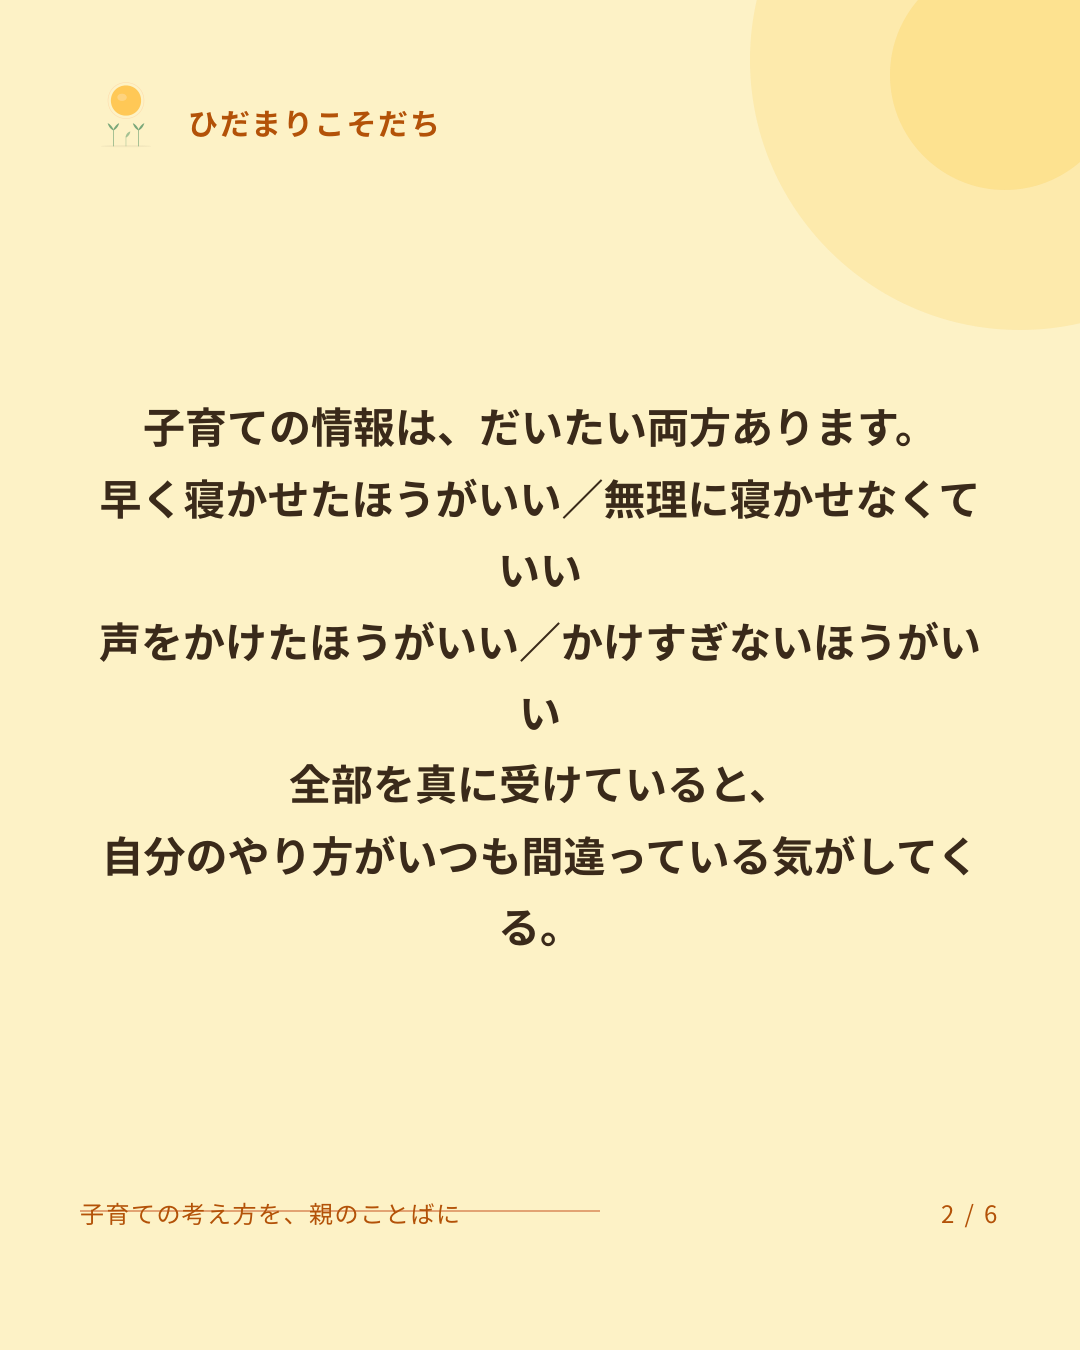
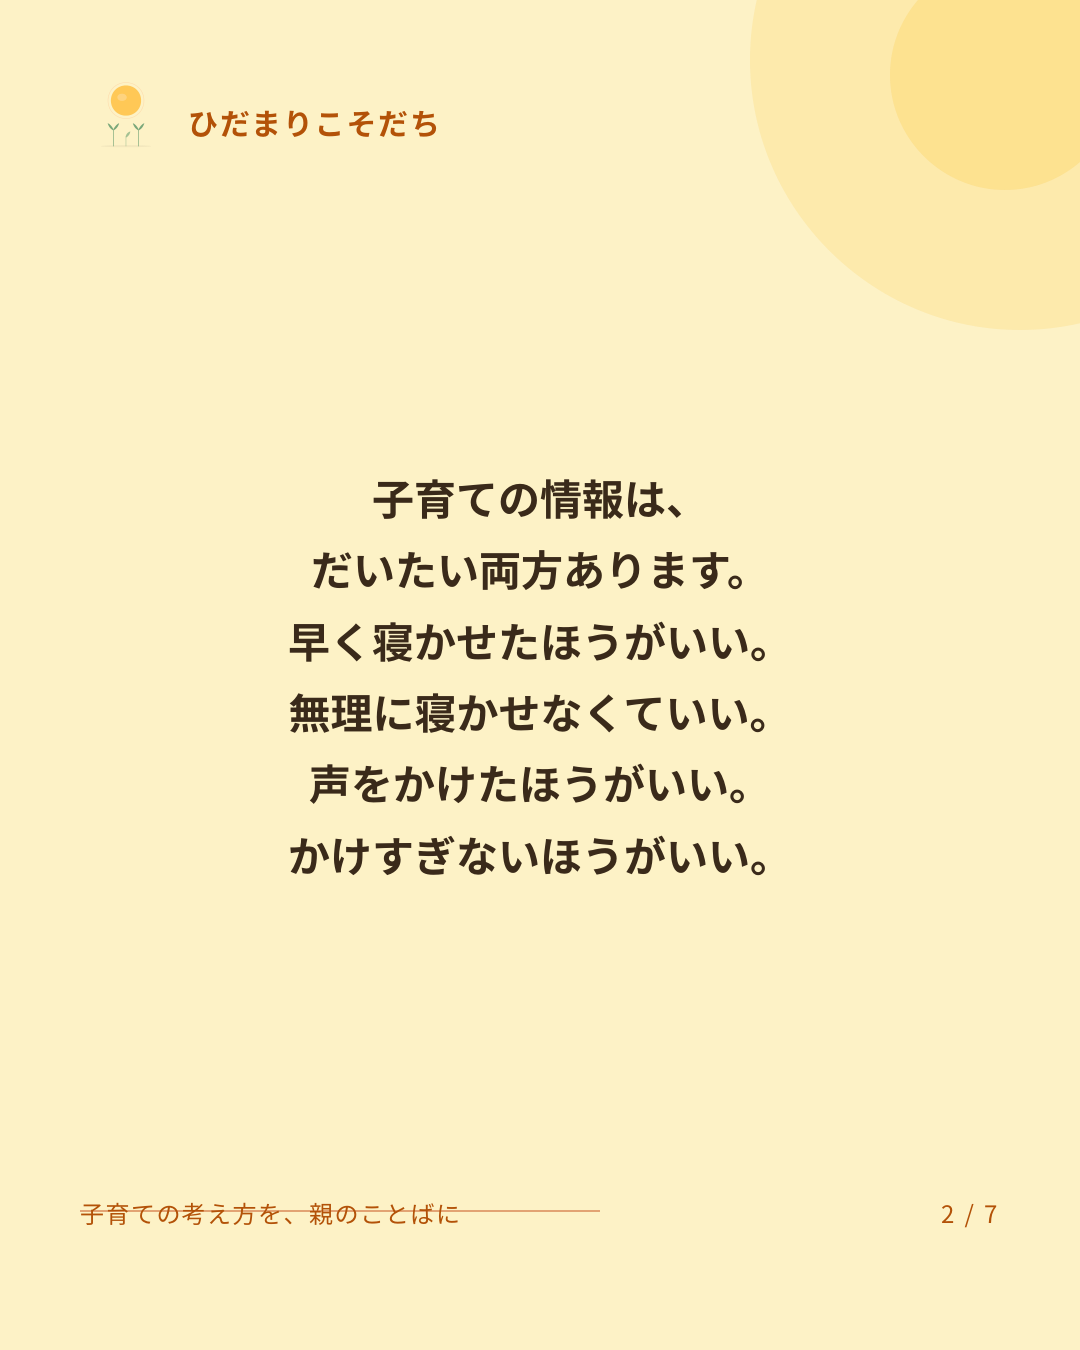
fix(copy): 改行を「1行で読める位置」に統一（オーナー指示 2026-09-27）
- scripts/lib/jp_wrap.py 新設（句点→読点→助詞の順で切る・孤立行を作らない）
- instagram_carousel.py に word-break:keep-all（単語途中で折り返させない）
- format_note_linebreaks.py に助詞での分割を追加（太字スパンの外側だけ・リンクは触らない）
- カルーセル④の原稿を短い行に書き直し7枚へ／縁側タイプ記事を再整形して再入稿

Changed region(s): [[0.0917, 0.28, 0.9167, 0.7156]]

diff --git a/scripts/lib/jp_wrap.py b/scripts/lib/jp_wrap.py
@@ -1,0 +1,72 @@
+"""日本語の改行を「1行だけ読んで意味が通る」位置で入れるユーティリティ。
+
+オーナー指示（2026-09-27）: 単語・文節の途中で折り返さない。画像・note・SNS すべてに適用する。
+切る位置の優先順は 句点 → 読点 → 助詞の後ろ → 括弧の外側。
+"""
+from __future__ import annotations
+
+import re
+
+# 助詞・接続の切れ目（この直後で切ると読みやすい）
+PARTICLES = ("ので", "けど", "から", "より", "ため", "のに", "ては", "ても", "でも",
+             "には", "とは", "では", "へは", "って", "は", "が", "を", "に", "で",
+             "と", "も", "や", "ね", "し")
+# 行頭に置いてはいけない文字（禁則）
+NO_HEAD = "、。）」』】,.!?！？ー・"
+
+
+def _break_points(s: str) -> list[int]:
+    """切ってよい位置（その位置の直前までで1行にできる index）を優先度つきで返す。"""
+    pts: list[tuple[int, int]] = []          # (優先度, 位置) 優先度は小さいほど良い
+    for m in re.finditer(r"[。！？]", s):
+        pts.append((0, m.end()))
+    for m in re.finditer(r"[、，]", s):
+        pts.append((1, m.end()))
+    for m in re.finditer(r"[／/]", s):          # 対比の区切りは読点と同格
+        pts.append((1, m.end()))
+    for p in PARTICLES:
+        for m in re.finditer(re.escape(p), s):
+            end = m.end()
+            if end < len(s) and s[end] not in NO_HEAD:
+                pts.append((2 + (0 if len(p) > 1 else 1), end))
+    for m in re.finditer(r"[）」』】]", s):
+        pts.append((4, m.end()))
+    return [pos for _, pos in sorted(set(pts))]
+
+
+def wrap(text: str, width: int = 20) -> str:
+    """1行 width 字を目安に、意味の切れ目で改行する。
+
+    既に入っている改行は尊重する（原稿側の意図を壊さない）。
+    """
+    out: list[str] = []
+    for line in text.split("\n"):
+        line = line.rstrip()
+        if len(line) <= width:
+            out.append(line)
+            continue
+        rest = line
+        while len(rest) > width:
+            cands = [p for p in _break_points(rest) if 0 < p <= width]
+            if not cands:
+                # 目安内に切れ目が無ければ、少しはみ出してでも最初の切れ目で切る
+                after = [p for p in _break_points(rest) if p > width]
+                cut = after[0] if after else width
+            else:
+                cut = max(cands)      # 目安内でいちばん後ろ＝行を長く使う
+                # 残りが極端に短いと「いい」だけの行になって読みづらい。
+                # その場合は1つ手前の切れ目に下げる。
+                if len(rest) - cut < 5:
+                    earlier = [p for p in cands if len(rest) - p >= 5]
+                    if earlier:
+                        cut = max(earlier)
+            out.append(rest[:cut].rstrip())
+            rest = rest[cut:].lstrip()
+        if rest:
+            out.append(rest)
+    return "\n".join(out)
+
+
+def check(text: str, width: int = 20) -> list[str]:
+    """width を超える行を返す（目視チェック用）。"""
+    return [l for l in text.split("\n") if len(l) > width]

diff --git a/scripts/format_note_linebreaks.py b/scripts/format_note_linebreaks.py
@@ -24,7 +24,13 @@ import sys
 OPEN = "「（『"
 CLOSE = "」）』"
 ENDERS = "。！？!?"
-LIMIT = 25  # この長さを超えていれば読点でも改行
+LIMIT = 25   # この長さを超えていれば読点でも改行
+HARD = 34    # これを超える行は、助詞の切れ目でさらに分ける（スマホで折り返させない）
+# 「1行だけ読んで意味が通る」ようにするため、助詞の後ろを切れ目として使う
+# （オーナー指示 2026-09-27・[[feedback-line-breaks]]）
+PARTICLES = ("ので", "けど", "から", "より", "ため", "のに", "ては", "ても", "でも",
+             "には", "とは", "では", "って", "は", "が", "を", "に", "で", "と", "も")
+NO_HEAD = "、。）」』】,.!?！？ー・"
 
 
 def break_text(s):
@@ -52,7 +58,60 @@ def break_text(s):
         i += 1
     if cur:
         lines.append(cur)
-    return [l for l in lines if l != ""]
+    out = []
+    for l in lines:
+        out.extend(_split_long(l))
+    return [l for l in out if l != ""]
+
+
+def _split_long(line):
+    """HARD 字を超える行を、助詞の切れ目で分ける。切れ目が無ければそのまま返す。
+
+    スマホ幅では長い行が自動で折り返り、単語の途中で切れて読みづらくなるため。
+    """
+    if len(line) <= HARD or "](http" in line:   # リンク記法は途中で切らない
+        return [line]
+
+    def in_emph(pos, text):
+        """pos が **太字** の内側かどうか（内側では切らない）。"""
+        spans, start = [], 0
+        while True:
+            a = text.find("**", start)
+            if a < 0:
+                break
+            b = text.find("**", a + 2)
+            if b < 0:
+                break
+            spans.append((a, b + 2))
+            start = b + 2
+        return any(a < pos < b for a, b in spans)
+    res, rest = [], line
+    while len(rest) > HARD:
+        cuts = []
+        for p in PARTICLES:
+            start = 0
+            while True:
+                i = rest.find(p, start)
+                if i < 0 or i + len(p) > HARD:
+                    break
+                end = i + len(p)
+                if (end < len(rest) and rest[end] not in NO_HEAD and end >= 8
+                        and not in_emph(end, rest)):
+                    cuts.append(end)
+                start = i + 1
+        if not cuts:
+            break
+        cut = max(cuts)
+        if len(rest) - cut < 5:                # 「いい」だけの行を作らない
+            earlier = [c for c in cuts if len(rest) - c >= 5]
+            if not earlier:
+                break
+            cut = max(earlier)
+        res.append(rest[:cut])
+        rest = rest[cut:]
+    if rest:
+        res.append(rest)
+    return res
 
 
 def process_body_line(line):

diff --git a/scripts/instagram_carousel.py b/scripts/instagram_carousel.py
@@ -94,6 +94,9 @@ def _frame(inner_html: str, page_no: int, total: int) -> str:
 @page {{ size: {W}px {H}px; margin: 0; }}
 * {{ margin: 0; padding: 0; box-sizing: border-box; }}
 html, body {{ width: {W}px; height: {H}px; }}
+/* 日本語は既定だと単語の途中でも折り返す。keep-all で禁止し、改行は原稿側で決める
+   （オーナー指示 2026-09-27「文末から読んで1行で読めるように」） */
+* {{ word-break: keep-all; overflow-wrap: normal; line-break: strict; }}
 body {{ font-family: 'Noto Sans CJK JP', sans-serif; background: {C_BG};
   position: relative; overflow: hidden; }}
 .sun  {{ position: absolute; top: -210px; right: -210px; width: 540px; height: 540px;

diff --git a/docs/note/articles/13_series11_engawa.md b/docs/note/articles/13_series11_engawa.md
@@ -37,7 +37,8 @@ matcher_url: https://hidamari-kosodachi.pages.dev/matcher/
 ## こんな日、ありませんか
 
 公園で、子どもが振り返らずに走っていく。
-前はこっちを見ながら少しずつ離れていったのに、今日は一度も振り返らなかった。
+前はこっちを見ながら少しずつ離れていったのに、今日は一度も
+振り返らなかった。
 
 家では、呼ばれないまま30分が過ぎている。
 ひとりで積み木を並べて、その世界の中で何かしゃべっている。
@@ -50,8 +51,10 @@ matcher_url: https://hidamari-kosodachi.pages.dev/matcher/
 
 ## 帰る場所をつくっている人
 
-子育てタイプ診断で「縁側タイプ」になる人は、3つの傾向が重なっています。
-**委ねる**（何をするかは子どもが決める）、**整える**（暮らしの形は決まっている）、
+子育てタイプ診断で「縁側タイプ」になる人は、3つの傾向が
+重なっています。
+**委ねる**（何をするかは子どもが
+決める）、**整える**（暮らしの形は決まっている）、
 **寄り添う**（気持ちには応える）。
 
 行き先を決めるのは子ども。
@@ -64,9 +67,11 @@ matcher_url: https://hidamari-kosodachi.pages.dev/matcher/
 という考え方です。
 
 ここで大事なのは、順番です。
-**先に安心があって、あとから冒険が来る。** その逆ではありません。
+**先に安心があって、あとから冒険が来る。** その逆では
+ありません。
 
-だから、子どもが振り返らずに走っていったのは、あなたのことを忘れたからではありません。
+だから、子どもが振り返らずに走っていったのは、あなたのことを
+忘れたからではありません。
 振り返らなくても、そこにいるとわかっているからです。
 
 寂しさの正体は、たぶんこれです。
@@ -74,12 +79,14 @@ matcher_url: https://hidamari-kosodachi.pages.dev/matcher/
 
 ## 「何もしてあげられていない」という誤解
 
-このタイプの人からよく出てくるのが、「今日は何もしてあげられなかった」という言葉です。
+このタイプの人からよく出てくるのが、「今日は何も
+してあげられなかった」という言葉です。
 
 でも、たいていの場合それは誤解です。
 **いる、というのは行為です。**
 
-子どもがひとりで遊べているのは、呼べば応える人がいると知っているからで、
+子どもがひとりで遊べているのは、呼べば応える人がいると知って
+いるからで、
 失敗したことを言えるのは、責められないとわかっているからです。
 どちらも、あなたが毎日そこにいることで成立しています。
 
@@ -94,7 +101,8 @@ matcher_url: https://hidamari-kosodachi.pages.dev/matcher/
 強みと弱みは、同じところから出てきます。
 
 土台が厚いぶん、子どもは早めに、遠くまで離れていきます。
-そして、離れていく時期の寂しさは、このタイプがいちばん強く受け取ります。
+そして、離れていく時期の寂しさは、このタイプが
+いちばん強く受け取ります。
 
 もうひとつ。
 待つ場所に居続けるうちに、**自分のやりたいことが後回しになっていく**。
@@ -105,7 +113,8 @@ matcher_url: https://hidamari-kosodachi.pages.dev/matcher/
 
 ## 明日、ひとつだけ試すなら
 
-子どもが自分の世界に入っている時間に、**自分のやりたいことを少しだけやってみてください**。
+子どもが自分の世界に入って
+いる時間に、**自分のやりたいことを少しだけやってみてください**。
 
 読みかけの本でも、コーヒーを座って飲むことでもいい。
 「呼ばれたら行く」は変わりません。
@@ -115,19 +124,25 @@ matcher_url: https://hidamari-kosodachi.pages.dev/matcher/
 
 ## 気持ちが、少し楽になるかもしれない見方
 
-- **離れていくのは、うまくいっている証拠です。** 子どもが振り返らずに走っていくのは、
+- **離れていくのは、うまくいっている証拠です。** 子どもが
+  振り返らずに走っていくのは、
   あなたがそこにいると信じているからです。
 - **「何もしてあげられていない」は、たぶん誤解です。** いる、
   というのは行為です。
-- **自分の時間を持つことは、裏切りではありません。** 親が満たされていることは、
+- **自分の時間を持つことは、裏切りではありません。** 親が
+  満たされていることは、
   めぐりめぐって子どものためになります。
 
 ## ちがう風景の人と、一緒に育てるとき
 
-パートナーが、外へ連れ出したがるタイプだと、家の中が振り回される感じがするかもしれません。
-「もっといろいろ経験させよう」と言われて、気が進まない日もあると思います。
+パートナーが、外へ連れ出したがるタイプだと、家の中が
+振り回される感じがするかもしれません。
+「もっといろいろ経験させよう」と言われて、気が進まない日もあると
+思います。
 
-でも子どもから見ると、**連れ出してくれる人と、帰れる場所と、両方がある**状態です。
+でも子どもから見ると、
+**連れ出してくれる人**と、**帰れる場所**と、
+両方がある状態です。
 相手の予定に全部合わせなくて大丈夫です。
 あなたは動かないことが役割なので。
 
@@ -137,7 +152,8 @@ matcher_url: https://hidamari-kosodachi.pages.dev/matcher/
 
 子どもが助けを求めているのに気づかないまま待つのは、
 待つこととは別ものです。
-それから、**寂しさが長く続いてつらいときは、それ自体をどうにかしようとしなくて大丈夫です。**
+それから、寂しさが長く続いてつらいときは、
+**それ自体をどうにかしようとしなくて大丈夫です。**
 子育ての時期が変わるときに起きる感情は、我慢するものでも、
 消すものでもありません。
 
@@ -150,7 +166,8 @@ matcher_url: https://hidamari-kosodachi.pages.dev/matcher/
 抱っこをせがまなくなった日は、たぶん二度と戻ってきません。
 それを寂しいと思えるのは、そこに毎日いた人だけです。
 
-いつか、もっと遠くへ行く日が来ても、この家の縁側は同じ場所にあります。
+いつか、もっと遠くへ行く日が来ても、この家の縁側は同じ場所に
+あります。
 子どもはそれを、あなたが思っているよりずっとよく知っています。
 
 ---
@@ -163,7 +180,9 @@ matcher_url: https://hidamari-kosodachi.pages.dev/matcher/
 ## ドラフトメモ（note 入稿前チェック・本文には含めない）
 
 - 字数概算: 本文 約2,000字。
-- ブランドガード: NG語不使用／「待てばいい」と単純化しない／寂しさを否定しない／医療境界フック（支援センター・小児科・保健センター）／親を責めない。
+- ブランドガード: NG語不使用／「待てばいい」と
+  単純化しない／寂しさを
+  否定しない／医療境界フック（支援センター・小児科・保健センター）／親を責めない。
 - トーン: 公開済 06/07 準拠。
 - 次弾: 小川タイプ（親の消耗）→ 野原タイプ（まわりの誤解）→ 畑タイプ。
   診断のタイプ分布が出たら順番を組み替える。
